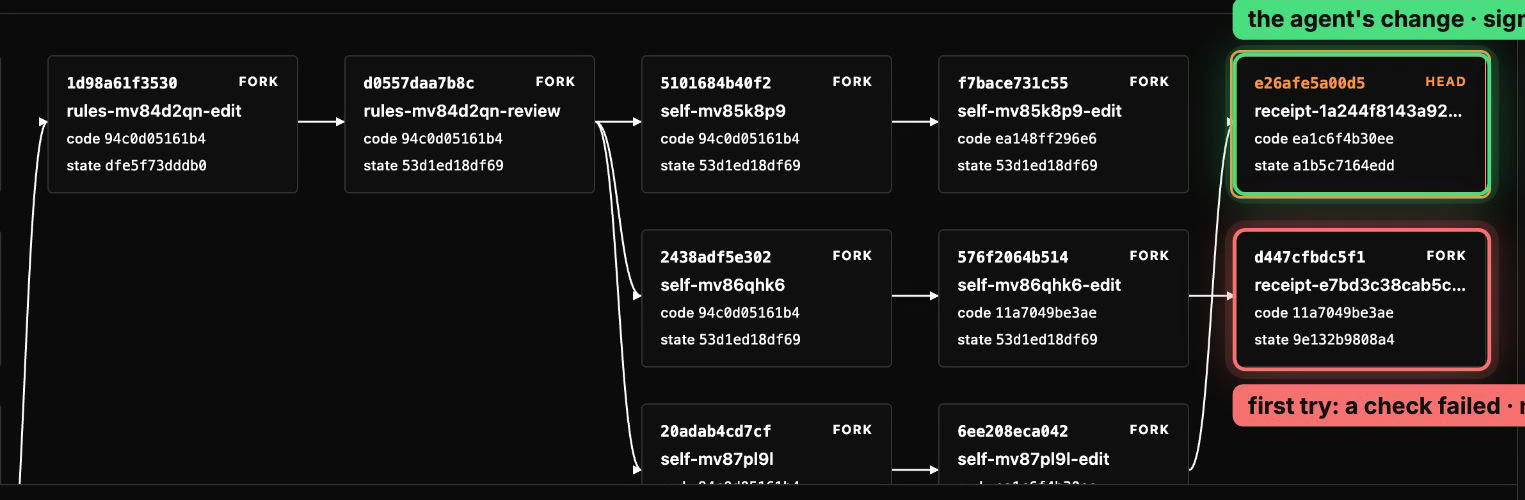
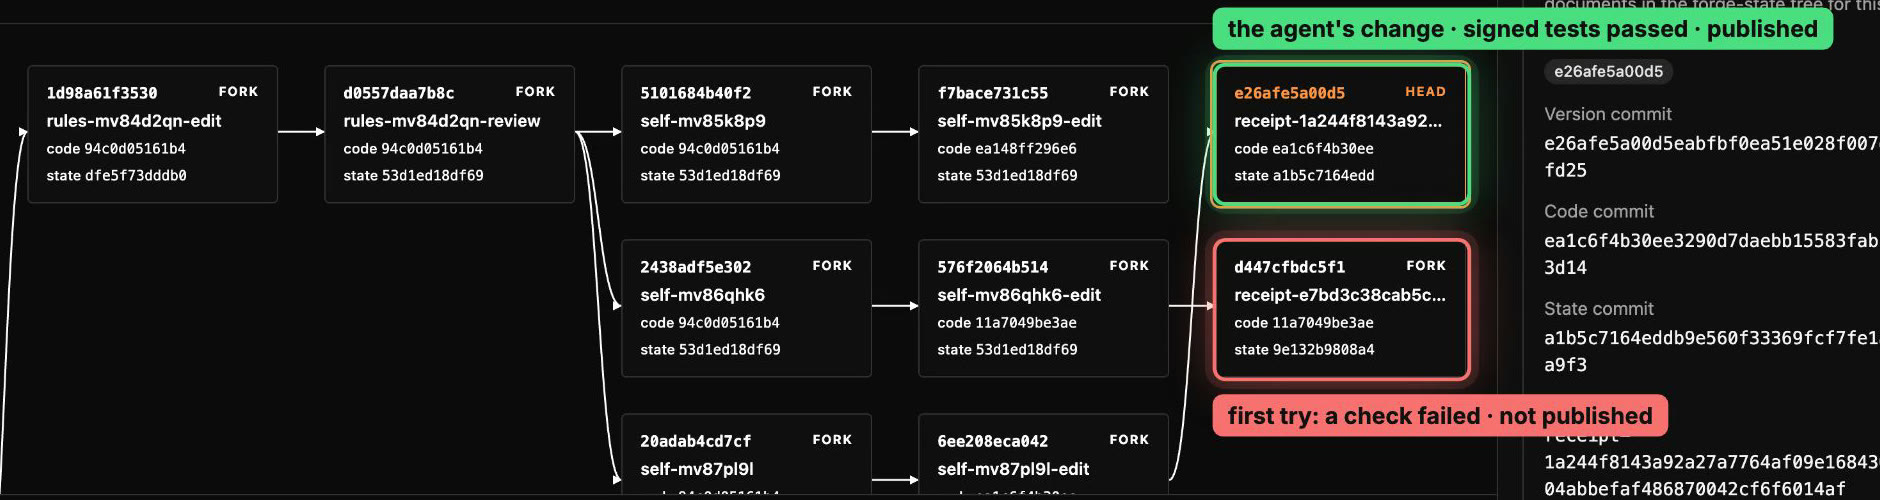
Fit the README's commands, diagram and screenshot

diff --git a/README.md b/README.md
@@ -50,8 +50,10 @@ You need Node.js 22 or later.
 ```bash
 git clone https://github.com/douglance/gitfoundry.git
 cd gitfoundry
-node scripts/agents-demo-setup.mjs you@example.com   # emails you a sign-in code and creates a demo repository
-node scripts/agents-demo.mjs                         # three agents fork, merge, test and publish
+# Emails you a sign-in code and creates a demo repository
+node scripts/agents-demo-setup.mjs you@example.com
+# Three agents fork, merge, test and publish
+node scripts/agents-demo.mjs
 ```
 
 Open the link the setup prints and choose **Forge** to watch the lineage. Ada adds sales tax, Grace adds currency formatting, and Linus adds discount codes. Ada and Linus both rewrite the same function, so Linus resolves the conflict. The tests run on the merged code and publish it. Then Grace's old fork tries to publish from a head that has already moved, and the forge refuses it.
@@ -59,16 +61,13 @@ Open the link the setup prints and choose **Forge** to watch the lineage. Ada ad
 ## How it works
 
 ```mermaid
-flowchart LR
-    H([forge head]) --> A[ada's fork]
-    H --> G[grace's fork]
-    H --> L[linus's fork]
-    A --> I[integration fork]
-    G --> I
-    L -. conflict handed back .-> R[linus resolves on the integration line]
+flowchart TD
+    H([forge head]) --> A[ada adds tax] & G[grace adds currency] & L[linus adds discounts]
+    A & G --> I[integration fork]
+    L -. conflict handed back .-> R[linus resolves it on the integration line]
     I --> R
-    R --> T{tests pass on<br>the exact code?}
-    T -- yes --> P([publish: head moves only<br>if nobody moved it first])
+    R --> T{tests pass on the exact merged code?}
+    T -- yes --> P([publish: the head moves only if nobody moved it first])
     T -- no --> N[nothing is published]
     S[grace's stale fork] -. refused .-> P
 ```
